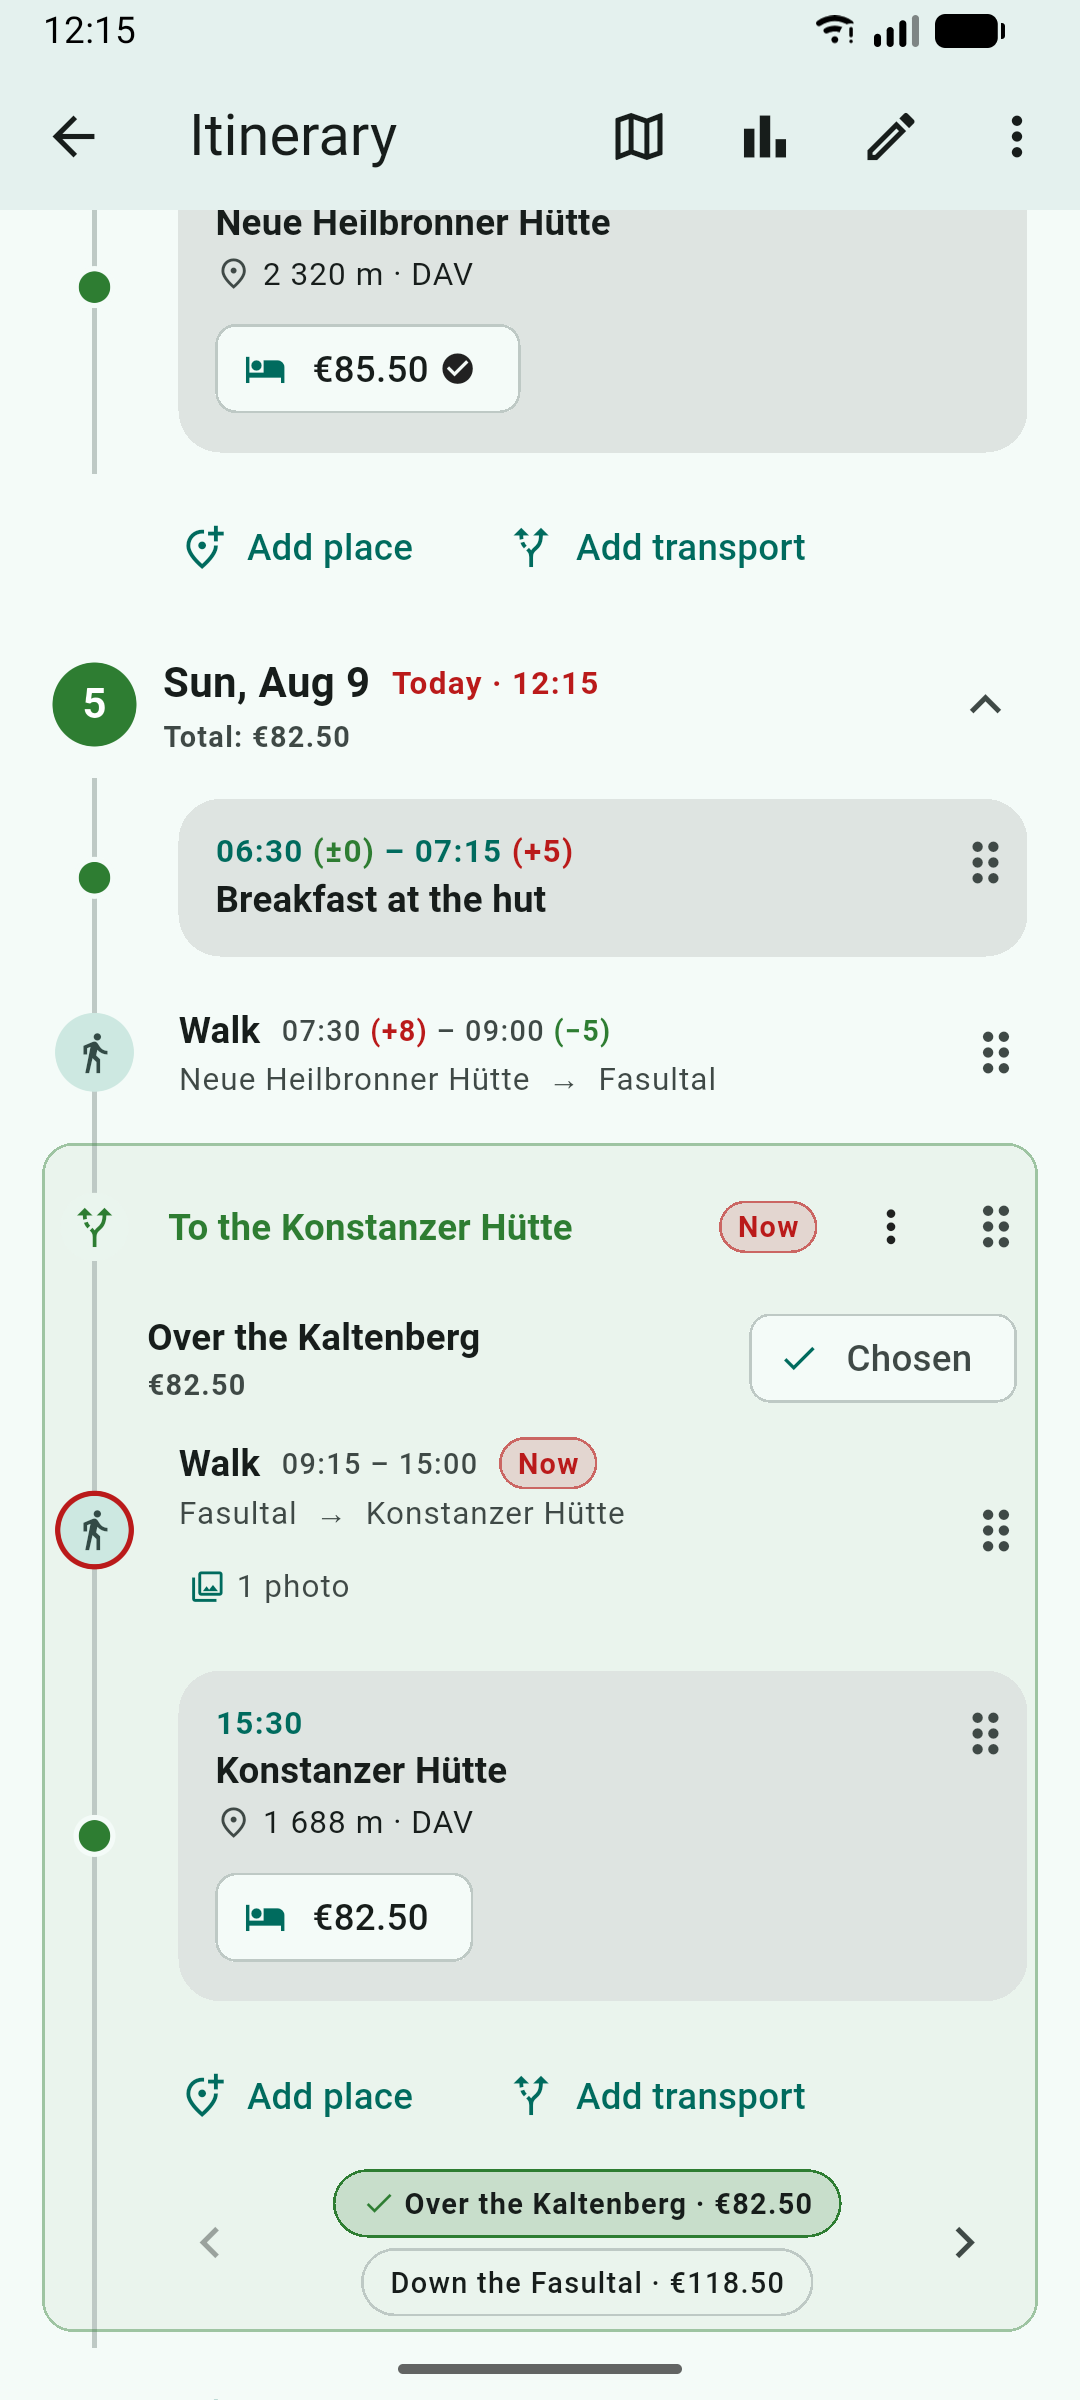
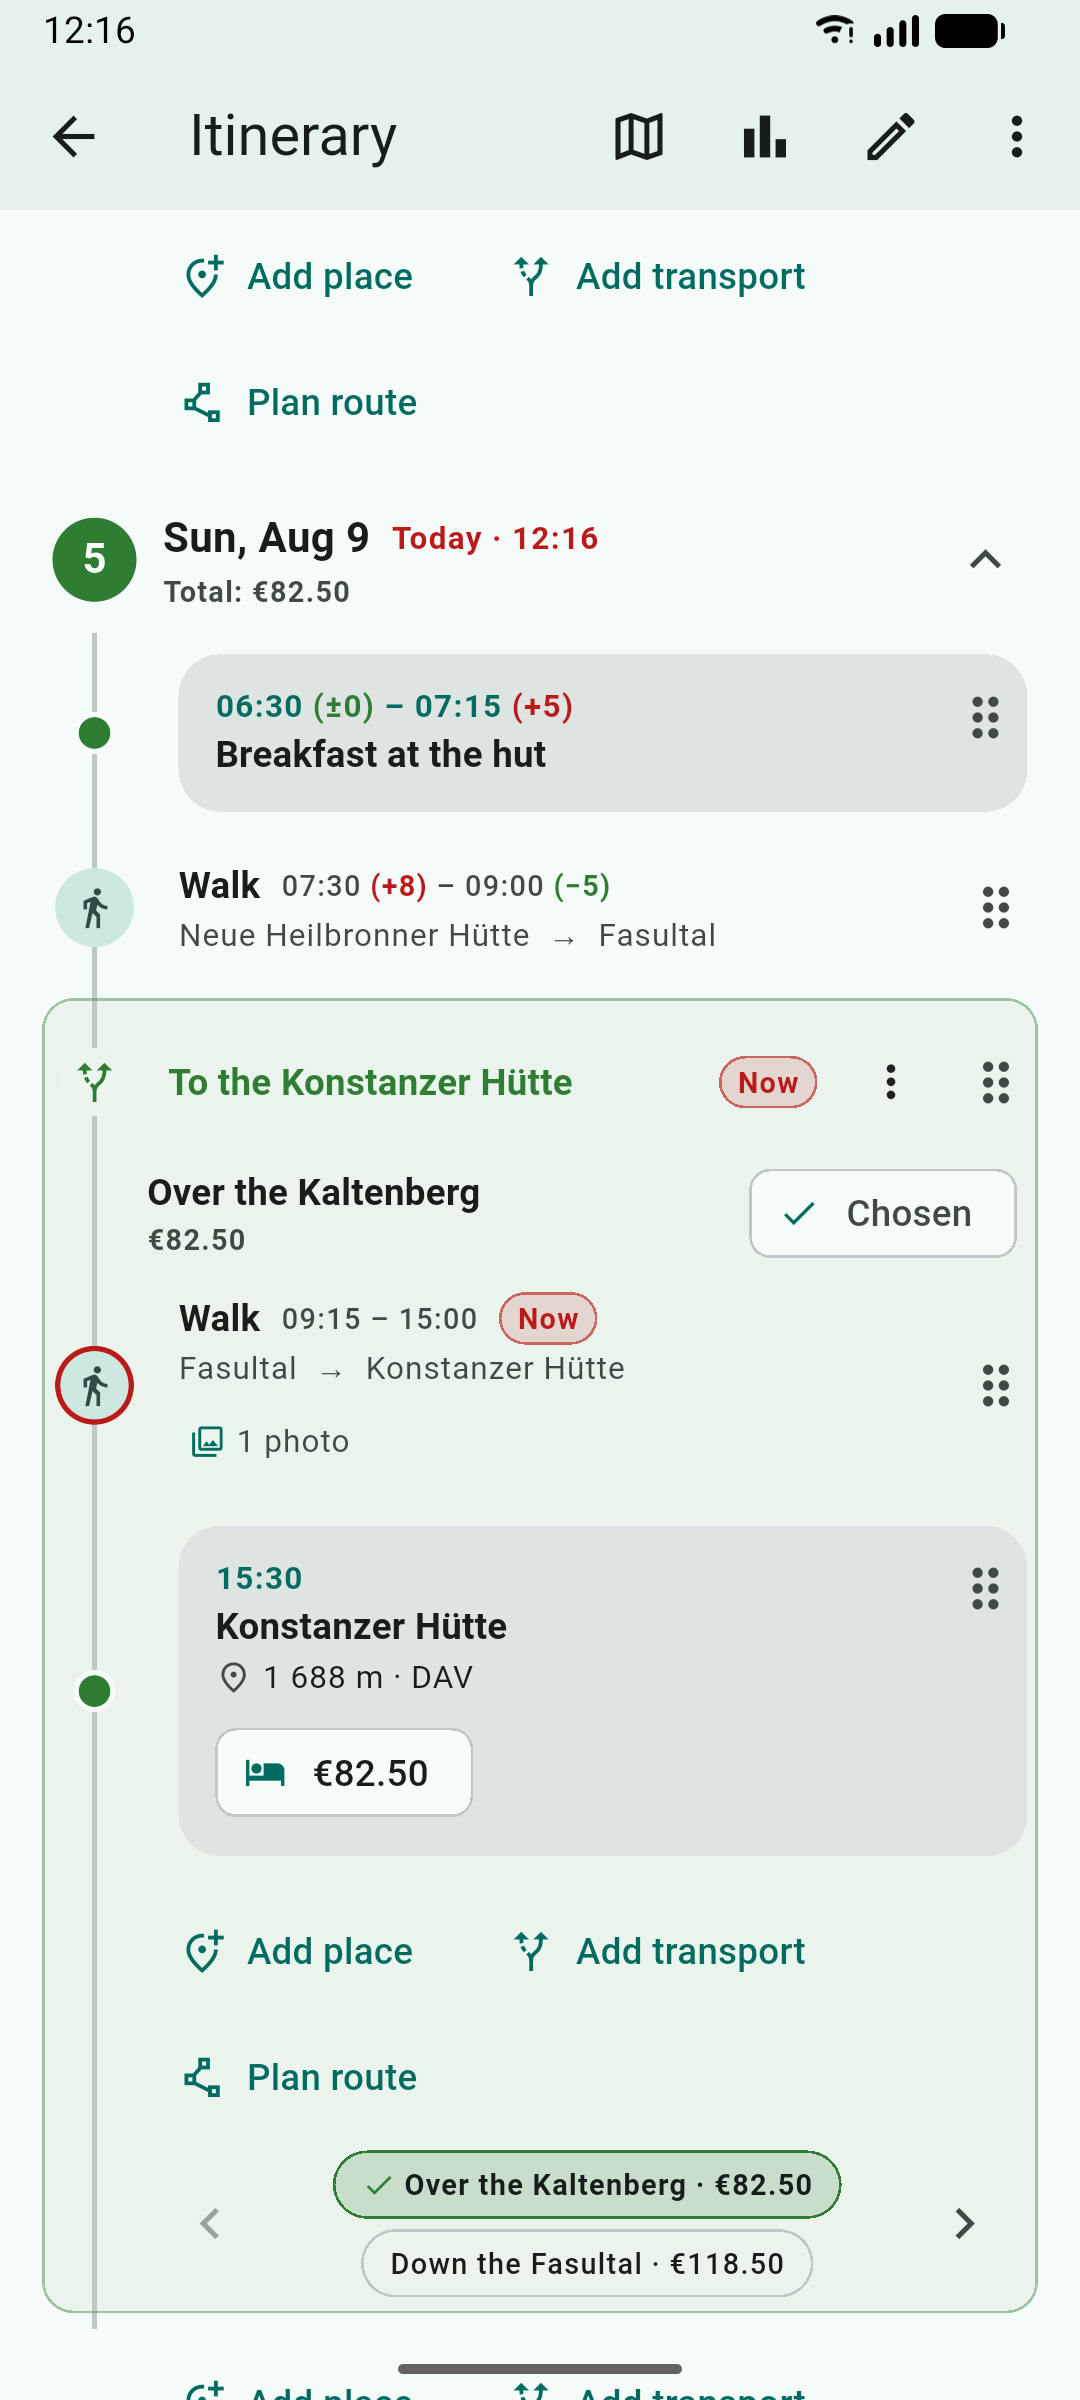
Prepare release 1.17.0 (#177)
* Prepare release 1.17.0

* Describe ski days and elevation profiles in the README

* Retake the timeline and map screenshots

---------

diff --git a/README.md b/README.md
@@ -14,9 +14,9 @@ Plan a trip day by day — where you go, how you get there, and what it costs, b
 category and by person — and keep the whole database in **one portable SQLite file that belongs to
 you**. No account, no server, nothing uploaded. The app works with the network switched
 off; the exceptions are an optional connection search that looks up real timetables and
-writes the answer into your local plan, the route planner, which asks a routing server for
-the way between the points you set, and the map, whose background tiles are fetched
-while you look at them.
+writes the answer into your local plan, the route planner, which asks online servers for
+the way between the points you set and, for a ski day or a straight line, for pistes, lifts
+and heights, and the map, whose background tiles are fetched while you look at them.
 
 You can plan all kinds of trips: an afternoon out, the daily commute, and two weeks abroad
 are planned the same way, and differ only in their dates. The primary target is
@@ -82,10 +82,12 @@ For macOS and iOS, which have no release builds, or to build any of the four you
   own screen shows its route on a map and where each train is estimated to be.
 - **Route planning** — tap the points of a walk, ride or drive on a map and the app finds
   the way between them, changing the way of travel from point to point, and adds it to the
-  day with its line.
+  day with its line, climb and elevation profile. A ski day is routed over the pistes and
+  lifts of a ski area.
 - **A map** — a trip's places and legs on an OpenStreetMap background, with the entry that
   is under way marked as the timeline marks it. Record a **track** from the map, or import a
-  **GPX** file, and the map draws the line you actually followed instead of the straight one.
+  **GPX** file, and the map draws the line you actually followed instead of the straight one,
+  with its climb and elevation profile.
 - **Photos and files on the plan** — attach a photograph or a document to an entry, to a
   group, or to the trip itself. They live inside the database, so a copy of that one file
   is a copy of everything. A photo carrying a position shows up on the map, and one of them
@@ -207,7 +209,7 @@ lib/
     trips/                  # overview, calendar, create/edit, detail, participants, tags, routines
     itinerary/              # timeline, day blocks, alternatives, item form, now marker, modes
     transport_search/       # online connection search (Transitous/MOTIS) + live-times refresh
-    route_planner/          # planning a route on the map (BRouter; ski runs: Overpass)
+    route_planner/          # planning a route on the map (BRouter, Overpass, Mapterhorn)
     map/                    # trip map: pure feature building + the basemap and its screen
     attachments/            # photos and files on an entry, a group, or the trip; gallery
     costs/                  # cost form, splitting/stats, settlements, reasons, currencies
@@ -215,7 +217,7 @@ lib/
     sharing/                # portable trip bundles (.tpt), plus PDF and .ics export
     settings/               # language, theme, categories, currencies, modes, people, database
     home_widget/            # Android widget payload + sync
-  l10n/                     # app_en.arb, app_de.arb + generated classes
+  l10n/                     # app_en.arb, app_de.arb, app_zh.arb + generated classes
 android/ ios/ linux/ ...    # per-platform host projects
 web/                        # web host page + prebuilt sqlite3.wasm / drift_worker.js
 tool/                       # dev-only scripts (e.g. a live smoke test for the routing client)

diff --git a/CHANGELOG.md b/CHANGELOG.md
@@ -3,7 +3,7 @@
 Notable changes per release. Dates are release dates; the git tags carry the
 exact commits.
 
-## Unreleased
+## 1.17.0 — 2026-11-23
 
 - **Your own connection server.** The connection search can ask another MOTIS server instead
   of Transitous, set under Settings → Connection search.
